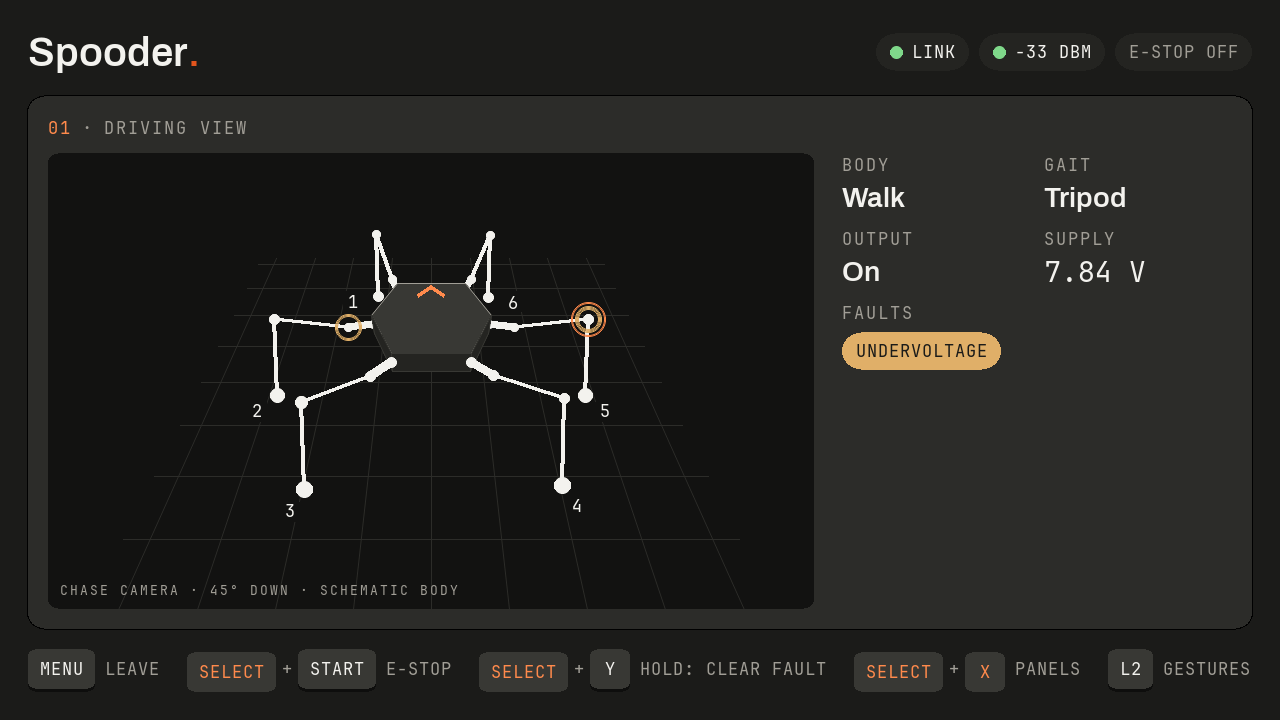
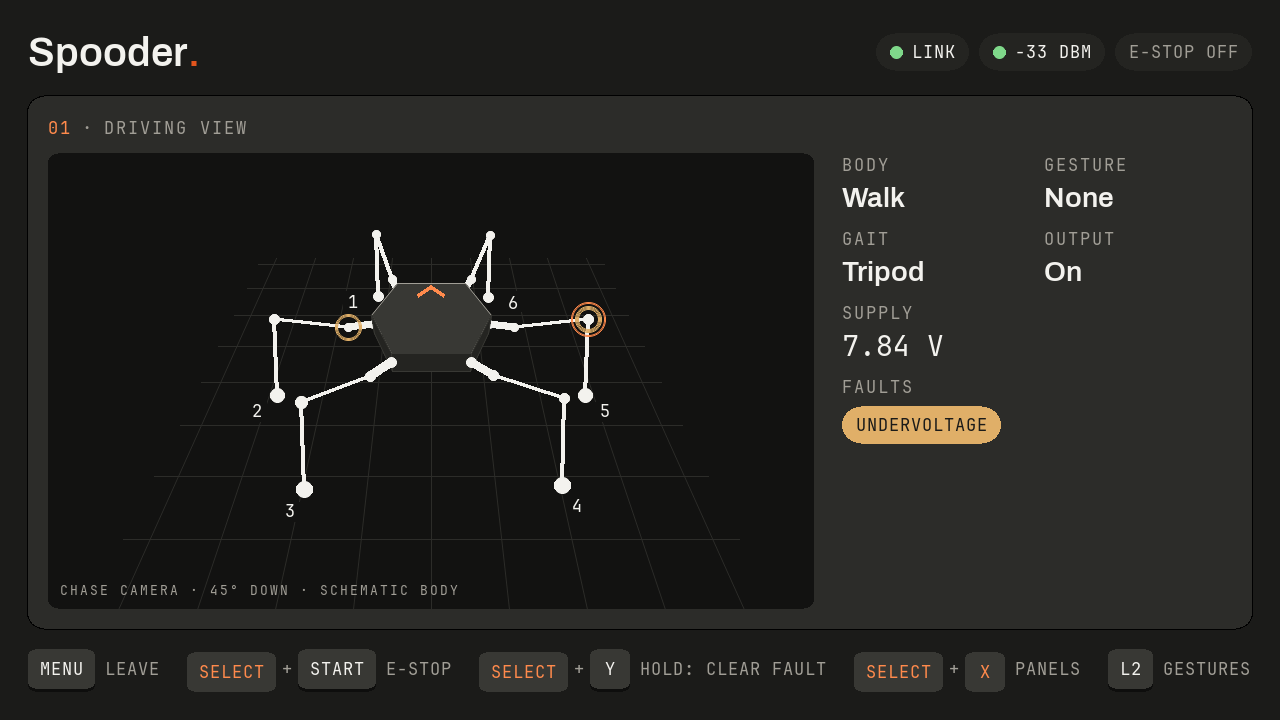
handheld: name the gesture on the driving view, press the hint keys
The driving view's cells took only body mode, gait, output and supply,
so a playing gesture read only as Perform there; it gains a GESTURE
cell. The REQUESTED panel's hint keys press while their control is held,
unless Select or L2 turns it to another function.

Claude-Session: https://claude.ai/code/session_01TL58oGMyQMmeXMf1sbLFyX

diff --git a/desktop/handheld/cmd/spooder-handheld/screen.go b/desktop/handheld/cmd/spooder-handheld/screen.go
@@ -254,7 +254,7 @@ type cell struct {
 	label, value string
 	colour       sdl.Color
 	mono         bool // a number: JetBrains Mono
-	keys         []string
+	keys         []key
 }
 
 // texCache keeps rendered text between frames; draw drops what a frame did
@@ -426,8 +426,9 @@ func (l layout) cellW(width int32, cols int) int32 {
 	return (width - int32(cols-1)*l.gap(cellGap)) / int32(cols)
 }
 
-// cells draws rows of cols label-over-value cells across width from x, y.
-func (s *screen) cells(cs []cell, cols int, x, y, width int32) {
+// cells draws rows of cols label-over-value cells across width from x, y;
+// a hint key beside a label presses while held has its control (hintPressed).
+func (s *screen) cells(cs []cell, cols int, x, y, width int32, held padmap.Buttons) {
 	l := s.l
 	colW := l.cellW(width, cols)
 	for i, c := range cs {
@@ -435,7 +436,7 @@ func (s *screen) cells(cs []cell, cols int, x, y, width int32) {
 		cy := y + int32(i/cols)*(l.cellH()+l.gap(cellGap))
 		kx := cx + s.tracked(s.f.micro, c.label, cx, cy, colMuted, trackMicro) + l.gap(10)
 		for _, k := range c.keys {
-			kx += s.hintKey(kx, cy, k) + l.gap(4)
+			kx += s.hintKey(kx, cy, k.label, hintPressed(k.b, held)) + l.gap(4)
 		}
 		vy := cy + l.microH + l.gap(labelGap)
 		if c.mono {
@@ -513,15 +514,43 @@ func (s *screen) hintKeyWidth(label string) int32 {
 	return max(l.microH, 2*l.gap(6)+trackedWidth(s.f.hint, label, trackLabel))
 }
 
-// hintKey draws a small flat key, as high as a label, at x, y and returns
-// its width.
-func (s *screen) hintKey(x, y int32, label string) int32 {
+// hintEdge is a hint key's edge, below its face at rest.
+const hintEdge = 2
+
+// hintKey draws a small key, as high as a label, at x, y and returns its
+// width. At rest it stands on a thin edge; pressed, it sits down on it with
+// its label in the orange text tone, as a footer keycap does.
+func (s *screen) hintKey(x, y int32, label string, pressed bool) int32 {
 	l := s.l
 	w := s.hintKeyWidth(label)
+	fg := colText
+	if pressed {
+		y += l.gap(hintEdge)
+		fg = colAccentTxt
+	} else {
+		s.fill(x, y+l.gap(hintEdge), w, l.microH, l.gap(4), colKeyEdge)
+	}
 	s.fill(x, y, w, l.microH, l.gap(4), colKey)
 	tw := trackedWidth(s.f.hint, label, trackLabel)
-	s.tracked(s.f.hint, label, x+(w-tw)/2, y+(l.microH-int32(s.f.hint.Height()))/2, colText, trackLabel)
+	s.tracked(s.f.hint, label, x+(w-tw)/2, y+(l.microH-int32(s.f.hint.Height()))/2, fg, trackLabel)
 	return w
+}
+
+// hintPressed is whether a requested value's hint key for control b shows
+// as pressed with held held (design D2 of handheld-observations): while b is
+// held and its press reaches that value, so not Start, X or Y while Select
+// is held (the e-stop, the page and the fault clear), nor A, B, X or Y while
+// L2 is held (the gesture layer).
+func hintPressed(b, held padmap.Buttons) bool {
+	switch {
+	case b == 0 || held&b == 0:
+		return false
+	case held&padmap.HandSelect != 0 && b&(padmap.HandStart|padmap.HandX|padmap.HandY) != 0:
+		return false
+	case held&padmap.HandL2 != 0 && b&(padmap.HandA|padmap.HandB|padmap.HandX|padmap.HandY) != 0:
+		return false
+	}
+	return true
 }
 
 func (s *screen) draw(sc app.Screen) {
@@ -534,7 +563,7 @@ func (s *screen) draw(sc app.Screen) {
 		s.driveView(sc)
 	} else {
 		s.robot(sc.Robot, sc.Notice)
-		s.requested(sc.Requested)
+		s.requested(sc.Requested, sc.Held)
 		s.link(sc.Link)
 	}
 	if sc.State == app.Leaving || sc.State == app.Acting {
@@ -676,7 +705,7 @@ func (s *screen) robot(rb app.Robot, notice string) {
 	}
 	y += wellH + l.gap(22)
 
-	s.cells(robotCells(rb, val), robotCols, ix, y, iw)
+	s.cells(robotCells(rb, val), robotCols, ix, y, iw, 0)
 	y += l.cellH() + l.gap(cellGap)
 
 	// Faults: chips that wrap; the emergency stop in orange, others in the
@@ -726,16 +755,17 @@ func (s *screen) faultChips(rb app.Robot, x, y, width, bottom int32, val sdl.Col
 	}
 }
 
-func (s *screen) requested(rq app.Requested) {
+// requested: what the pak requests, each value's keys pressed while held.
+func (s *screen) requested(rq app.Requested, held padmap.Buttons) {
 	l := s.l
 	y := s.panel(l.right, l.requestedY, l.colW, l.requested, "02", "REQUESTED", colMuted)
-	s.cells(requestedCells(rq), requestedCols, l.right+l.gap(panelPad), y, l.colW-2*l.gap(panelPad))
+	s.cells(requestedCells(rq), requestedCols, l.right+l.gap(panelPad), y, l.colW-2*l.gap(panelPad), held)
 }
 
 func (s *screen) link(lv app.LinkView) {
 	l := s.l
 	y := s.panel(l.right, l.linkY, l.colW, l.link, "03", "LINK", colMuted)
-	s.cells(linkCells(lv), linkCols, l.right+l.gap(panelPad), y, l.colW-2*l.gap(panelPad))
+	s.cells(linkCells(lv), linkCols, l.right+l.gap(panelPad), y, l.colW-2*l.gap(panelPad), 0)
 }
 
 // footer: the controls as keycaps, each pressed while its control is held;
@@ -824,12 +854,12 @@ func sourceName(s string) string {
 // mapping, internal/padmap): Y sleeps and wakes, Start walks and stands.
 func requestedCells(rq app.Requested) []cell {
 	return []cell{
-		{"MODE", rq.Mode, colText, false, []string{"Y", "START"}},
-		{"GAIT", rq.Gait, colText, false, []string{"L1", "R1"}},
-		{"STRIDE", rq.Stride, colText, false, []string{"X"}},
-		{"HEIGHT", fmt.Sprint(rq.Height), colText, true, []string{"↑", "↓"}},
-		{"SPEED", fmt.Sprint(rq.Speed), colText, true, []string{"←", "→"}},
-		{"STICKS", rq.StickMode, colText, false, []string{"B"}},
+		{"MODE", rq.Mode, colText, false, []key{{"Y", padmap.HandY}, {"START", padmap.HandStart}}},
+		{"GAIT", rq.Gait, colText, false, []key{{"L1", padmap.HandL1}, {"R1", padmap.HandR1}}},
+		{"STRIDE", rq.Stride, colText, false, []key{{"X", padmap.HandX}}},
+		{"HEIGHT", fmt.Sprint(rq.Height), colText, true, []key{{"↑", padmap.HandUp}, {"↓", padmap.HandDown}}},
+		{"SPEED", fmt.Sprint(rq.Speed), colText, true, []key{{"←", padmap.HandLeft}, {"→", padmap.HandRight}}},
+		{"STICKS", rq.StickMode, colText, false, []key{{"B", padmap.HandB}}},
 	}
 }
 

diff --git a/desktop/handheld/cmd/spooder-handheld/screen_test.go b/desktop/handheld/cmd/spooder-handheld/screen_test.go
@@ -2,6 +2,7 @@ package main
 
 import (
 	"math"
+	"slices"
 	"strings"
 	"testing"
 	"time"
@@ -10,6 +11,7 @@ import (
 	"github.com/veandco/go-sdl2/ttf"
 
 	"github.com/blackfyre/spooder/desktop/handheld/internal/app"
+	"github.com/blackfyre/spooder/desktop/handheld/internal/padmap"
 	"github.com/blackfyre/spooder/desktop/internal/legview"
 )
 
@@ -56,7 +58,7 @@ func TestLayoutFitsTheDevice(t *testing.T) {
 			if len(cl.keys) > 0 {
 				w += l.gap(10)
 				for _, k := range cl.keys {
-					w += s.hintKeyWidth(k) + l.gap(4)
+					w += s.hintKeyWidth(k.label) + l.gap(4)
 				}
 			}
 			if w > cellW {
@@ -120,7 +122,13 @@ func TestLayoutFitsTheDevice(t *testing.T) {
 		t.Errorf("driving view well %d×%d, cells %d wide", wellW, wellH, sideW)
 	}
 	vcW := l.cellW(sideW, viewCols)
-	for _, cl := range driveViewCells(app.Robot{Have: true, Body: "Calibrate", Gait: "Tripod", OutputsOn: true, Simulated: true, VoltageMv: 65535}, colText) {
+	vcs := driveViewCells(app.Robot{Have: true, Body: "Calibrate", Gait: "Tripod", Gesture: "say hi", OutputsOn: true, Simulated: true, VoltageMv: 65535}, colText)
+	// The cells' rows and a row of fault chips fit the panel.
+	if bottom, need := l.bodyBottom-l.gap(panelPad), l.bodyY+l.gap(panelPad)+l.microH+l.gap(kickerGap)+
+		int32((len(vcs)+viewCols-1)/viewCols)*(l.cellH()+l.gap(cellGap))+l.microH+l.gap(labelGap)+l.gap(2)+l.gap(chipHeight); need > bottom {
+		t.Errorf("the driving view's cells and faults end at %d, the panel at %d", need, bottom)
+	}
+	for _, cl := range vcs {
 		vf := f.value
 		if cl.mono {
 			vf = f.mono
@@ -200,6 +208,74 @@ func TestChaseCamera(t *testing.T) {
 				if _, d := chase.project(legview.Point3{X: x, Y: y, Z: z}); d <= 0 {
 					t.Errorf("corner (%.0f, %.0f, %.0f) behind the camera", x, y, z)
 				}
+			}
+		}
+	}
+}
+
+// The driving view names the gesture the robot plays beside its body mode
+// (design D1 of handheld-observations): from fresh telemetry, None when
+// none plays, a dash without telemetry.
+func TestDriveViewNamesGesture(t *testing.T) {
+	value := func(cs []cell, label string) (string, bool) {
+		for _, c := range cs {
+			if c.label == label {
+				return c.value, true
+			}
+		}
+		return "", false
+	}
+	for _, c := range []struct {
+		rb   app.Robot
+		want string
+	}{
+		{app.Robot{Have: true, Body: "Perform", Gesture: "say hi", GestureID: 1}, "say hi"},
+		{app.Robot{Have: true, Body: "Stand"}, "None"},
+		{app.Robot{}, "—"},
+	} {
+		cs := driveViewCells(c.rb, colText)
+		got, ok := value(cs, "GESTURE")
+		if !ok || got != c.want {
+			t.Errorf("driving view with %+v: gesture %q (shown %v), want %q", c.rb, got, ok, c.want)
+		}
+		if i := slices.IndexFunc(cs, func(c cell) bool { return c.label == "GESTURE" }); i != 1 {
+			t.Errorf("the gesture is cell %d, want 1, beside the body mode", i)
+		}
+	}
+}
+
+// A requested value's hint key presses while its control is held, as the
+// footer's keycaps do, except while Select or L2 turns the control to
+// another function (design D2 of handheld-observations).
+func TestHintKeysPressWhileHeld(t *testing.T) {
+	for _, c := range []struct {
+		b, held padmap.Buttons
+		want    bool
+	}{
+		{padmap.HandUp, padmap.HandUp, true},
+		{padmap.HandUp, padmap.HandDown, false},
+		{padmap.HandUp, 0, false},
+		{padmap.HandL1, padmap.HandL1 | padmap.HandR1, true},
+		{padmap.HandY, padmap.HandY, true},
+		{padmap.HandY, padmap.HandSelect | padmap.HandY, false},
+		{padmap.HandStart, padmap.HandSelect | padmap.HandStart, false},
+		{padmap.HandX, padmap.HandSelect | padmap.HandX, false},
+		{padmap.HandB, padmap.HandSelect | padmap.HandB, true},
+		{padmap.HandUp, padmap.HandSelect | padmap.HandUp, true},
+		{padmap.HandB, padmap.HandL2 | padmap.HandB, false},
+		{padmap.HandX, padmap.HandL2 | padmap.HandX, false},
+		{padmap.HandStart, padmap.HandL2 | padmap.HandStart, true},
+		{0, padmap.HandA, false},
+	} {
+		if got := hintPressed(c.b, c.held); got != c.want {
+			t.Errorf("hintPressed(%b, held %b) = %v, want %v", c.b, c.held, got, c.want)
+		}
+	}
+	// Every requested value's keys name a control, so each can press.
+	for _, cl := range requestedCells(app.Requested{}) {
+		for _, k := range cl.keys {
+			if k.b == 0 {
+				t.Errorf("%s key %q has no control", cl.label, k.label)
 			}
 		}
 	}

diff --git a/desktop/handheld/cmd/spooder-handheld/driveview.go b/desktop/handheld/cmd/spooder-handheld/driveview.go
@@ -22,7 +22,7 @@ import (
 // ringed, the front marker and the leg numbers, as the calibrator's views
 // draw them (internal/ui/views.go). The camera is fixed to the body: with no
 // odometry, the grid does not move as the robot walks. Beside it the robot's
-// body mode, gait, output and supply, and its faults.
+// body mode, the gesture it plays, gait, output and supply, and its faults.
 const (
 	viewPad  = 18 // the drawing's margin inside its well
 	viewCols = 2  // the cells beside the view
@@ -232,18 +232,23 @@ func (s *screen) driveView(sc app.Screen) {
 		val = colMuted
 	}
 	cs := driveViewCells(rb, val)
-	s.cells(cs, viewCols, cx, y, cw)
+	s.cells(cs, viewCols, cx, y, cw, 0)
 	fy := y + int32((len(cs)+viewCols-1)/viewCols)*(l.cellH()+l.gap(cellGap))
 	s.tracked(s.f.micro, "FAULTS", cx, fy, colMuted, trackMicro)
 	fy += l.microH + l.gap(labelGap) + l.gap(2)
 	s.faultChips(rb, cx, fy, cw, l.bodyBottom-l.gap(panelPad), val)
 }
 
-// driveViewCells is the robot's state beside the driving view.
+// driveViewCells is the robot's state beside the driving view: its body
+// mode and the gesture it plays (design D1 of handheld-observations), gait,
+// output and supply.
 func driveViewCells(rb app.Robot, val sdl.Color) []cell {
-	body, gait, out, supply := "No telemetry", "—", "—", "—"
+	body, gesture, gait, out, supply := "No telemetry", "—", "—", "—", "—"
 	if rb.Have {
-		body, gait, out = rb.Body, rb.Gait, "Off"
+		body, gesture, gait, out = rb.Body, "None", rb.Gait, "Off"
+		if rb.Gesture != "" {
+			gesture = rb.Gesture
+		}
 		if rb.OutputsOn {
 			out = "On"
 			if rb.Simulated {
@@ -254,6 +259,7 @@ func driveViewCells(rb app.Robot, val sdl.Color) []cell {
 	}
 	return []cell{
 		{"BODY", body, val, false, nil},
+		{"GESTURE", gesture, val, false, nil},
 		{"GAIT", gait, val, false, nil},
 		{"OUTPUT", out, val, false, nil},
 		{"SUPPLY", supply, val, true, nil},

diff --git a/desktop/handheld/cmd/spooder-handheld/screenshot_test.go b/desktop/handheld/cmd/spooder-handheld/screenshot_test.go
@@ -52,6 +52,7 @@ var screenshotCases = []struct {
 		Requested: app.Requested{Mode: "Walk", Height: 120, Speed: 44, Gait: "Tripod", Stride: "Dynamic", StickMode: "Steer"},
 		Link:      app.LinkView{Telemetry: 10, Pose: 10, Diagnostics: 10, HaveFrame: true, SinceLast: 40 * time.Millisecond, SignalKnown: true, SignalDBm: -33, Sent: 18250},
 		State:     app.Driving,
+		Held:      padmap.HandUp,
 	}, 0},
 	{"fault", app.Screen{
 		Robot:     app.Robot{Have: true, Body: "Sleep", Gait: "Tripod", Faults: []string{"emergency stop", "undervoltage"}, VoltageMv: 50, Source: "none"},

diff --git a/docs/handheld.md b/docs/handheld.md
@@ -19,13 +19,13 @@ If the TrimUI is on another network, the pak renews its address once and then na
 
 ## The drive screen
 
-The panels page shows the robot (body mode, output, supply voltage and current, gait, gesture, the source in control and the faults by name), what the pak requests, with small keys naming the controls that change each value, and the link's quality: the signal (also in the header, its dot green from -67 dBm, amber from -80 dBm, orange below), frames per type and second, invalid datagrams, lost and late frames, and the time since the last frame. The keycaps along the bottom press down while their control is held; the fault clear's fills as its hold runs.
+The panels page shows the robot (body mode, output, supply voltage and current, gait, gesture, the source in control and the faults by name), what the pak requests, with small keys naming the controls that change each value (each presses down while its control is held, unless `Select` or `L2` turns it to another function), and the link's quality: the signal (also in the header, its dot green from -67 dBm, amber from -80 dBm, orange below), frames per type and second, invalid datagrams, lost and late frames, and the time since the last frame. The keycaps along the bottom press down while their control is held; the fault clear's fills as its hold runs.
 
-![The handheld's panels page while walking: the robot in Walk with output on, 7.84 V and 3.42 A, the requested mode, gait, stride, height, speed and stick mode with their keys, and the link at 10 frames per second per type](images/handheld-driving.png)
+![The handheld's panels page while walking: the robot in Walk with output on, 7.84 V and 3.42 A, the requested mode, gait, stride, height, speed and stick mode with their keys (the up key pressed), and the link at 10 frames per second per type](images/handheld-driving.png)
 
-`Select` + `X` switches to the driving view: the robot from a chase camera fixed behind it, looking forward and 45° down in perspective over a ground grid at the lowest foot, drawn from the robot's pose frames. Joints near or at their servo limits are ringed, the orange chevron marks the front, and the body mode, gait, output, supply and faults sit beside it. The camera follows the body, and with no odometry the grid does not move as the robot walks.
+`Select` + `X` switches to the driving view: the robot from a chase camera fixed behind it, looking forward and 45° down in perspective over a ground grid at the lowest foot, drawn from the robot's pose frames. Joints near or at their servo limits are ringed, the orange chevron marks the front, and the body mode, the gesture playing, gait, output, supply and faults sit beside it. The camera follows the body, and with no odometry the grid does not move as the robot walks.
 
-![The driving view: the robot mid-stride from behind and above, its legs numbered 1 to 6, two joints ringed at their limits, a ground grid under it, and the body mode, gait, output, supply and an undervoltage fault beside it](images/handheld-driveview.png)
+![The driving view: the robot mid-stride from behind and above, its legs numbered 1 to 6, two joints ringed at their limits, a ground grid under it, and the body mode, gesture, gait, output, supply and an undervoltage fault beside it](images/handheld-driveview.png)
 
 While the robot reports bench simulation, a `SIM` chip leads the header on both pages and the output reads as simulated.
 

diff --git a/CHANGELOG.md b/CHANGELOG.md
@@ -73,6 +73,7 @@ All notable changes to Spooder are recorded here. The format follows [Keep a Cha
 
 ### Changed
 
+- **Handheld driving view and hint keys.** The pak's driving view names the gesture the robot plays (a GESTURE cell beside the body mode, which until now read only `Perform`), and the small keys beside each REQUESTED label press down while their control is held, as the footer's keycaps do (not while `Select` or `L2` turns the control to another function). Only the pak changes.
 - **Documentation section.** The readme keeps the overview, features, a quick start and the status; the details move to `docs/`: getting started (toolchains, flashing, bench simulation, wiring), the gamepad's and the handheld's controls, the handheld controller (installing the pak, joining, its two pages with screenshots, leaving), the screenshots and development (the gates, the layout, regenerating the screenshots).
 - **Measured leg mounts.** The coxa pivots are measured from upstream's frame STLs (`core/movement/body_geometry.h`, pinned for the desktop by `test/golden/body_geometry.txt`): (±97.50, 0) for the middle legs and (±60.41, ±89.56) for the corners, in place of the schematic (±90, 0) and (±70, ±120). The calibrator's legs pane and four views draw them, and the centre-of-gravity estimate, the gesture and gait stability tests use them: the support margins in `test/golden/centre_of_gravity.txt` shrink by 6–17 mm; the centre itself is unchanged. No firmware behaviour changes.
 - **Measured underside.** The body's lowest point, the underside of the coxa links under the pivots (Coxa Horn Connector), lies 24.2 mm below the coxa pivots, measured from upstream's STLs (`body_geometry::UNDERSIDE_Z`, `hardware/aecert-hexapod-v1/README.md`; Frame Bottom's underside is at 15.75 mm); `test/golden/body_geometry.txt` gains an `underside` line, which the desktop's tests read. `centre_of_gravity::undersideGrounded` says when the body rests on it, and the gesture support test then counts the frame, not the feet, as the support. No firmware behaviour changes.

diff --git a/openspec/changes/handheld-observations/tasks.md b/openspec/changes/handheld-observations/tasks.md
@@ -2,11 +2,11 @@
 
 ## 1. Driving view gesture
 
-- [ ] 1.1 Add the GESTURE cell to the driving view (D1). Verify with `go test ./cmd/spooder-handheld` in `desktop/handheld` that `driveViewCells` names the gesture from fresh telemetry, `None` without one and `—` without telemetry, and that the test fails with the cell removed; and that the layout test still fits the driving view's cells and faults.
+- [x] 1.1 Add the GESTURE cell to the driving view (D1). Verify with `go test ./cmd/spooder-handheld` in `desktop/handheld` that `driveViewCells` names the gesture from fresh telemetry, `None` without one and `—` without telemetry, and that the test fails with the cell removed; and that the layout test still fits the driving view's cells and faults.
 
 ## 2. Pressed hint keys
 
-- [ ] 2.1 Give the REQUESTED panel's hint keys their controls and draw them pressed while held (D2). Verify with `go test ./cmd/spooder-handheld` that `hintPressed` presses a held key, not an unheld one, not Start, X or Y with Select held, not A, B, X or Y with L2 held, and the D-pad with Select held; and that every requested cell's keys name a control.
+- [x] 2.1 Give the REQUESTED panel's hint keys their controls and draw them pressed while held (D2). Verify with `go test ./cmd/spooder-handheld` that `hintPressed` presses a held key, not an unheld one, not Start, X or Y with Select held, not A, B, X or Y with L2 held, and the D-pad with Select held; and that every requested cell's keys name a control.
 
 ## 3. Supply bands
 
